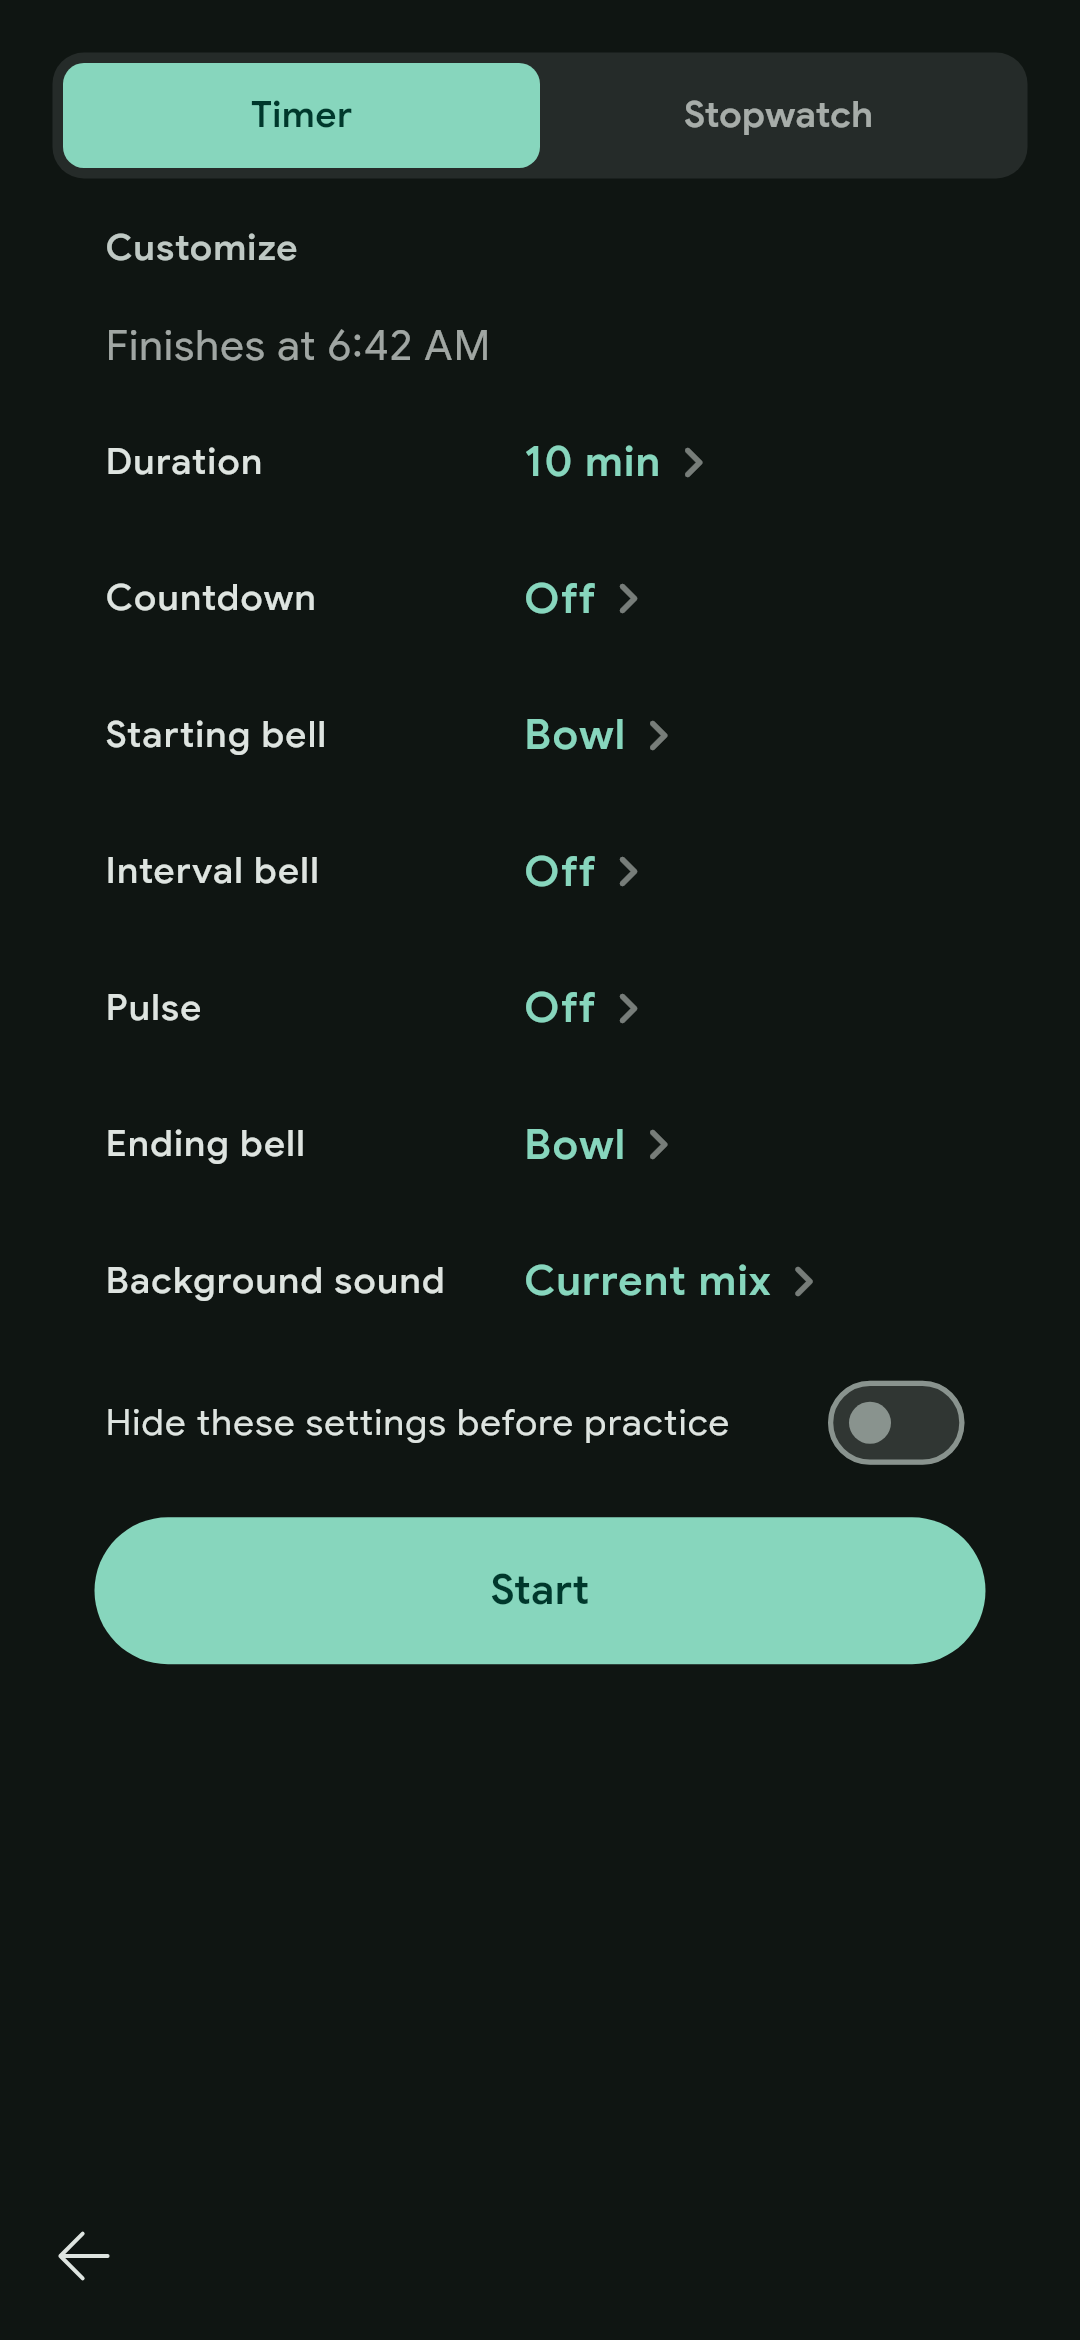
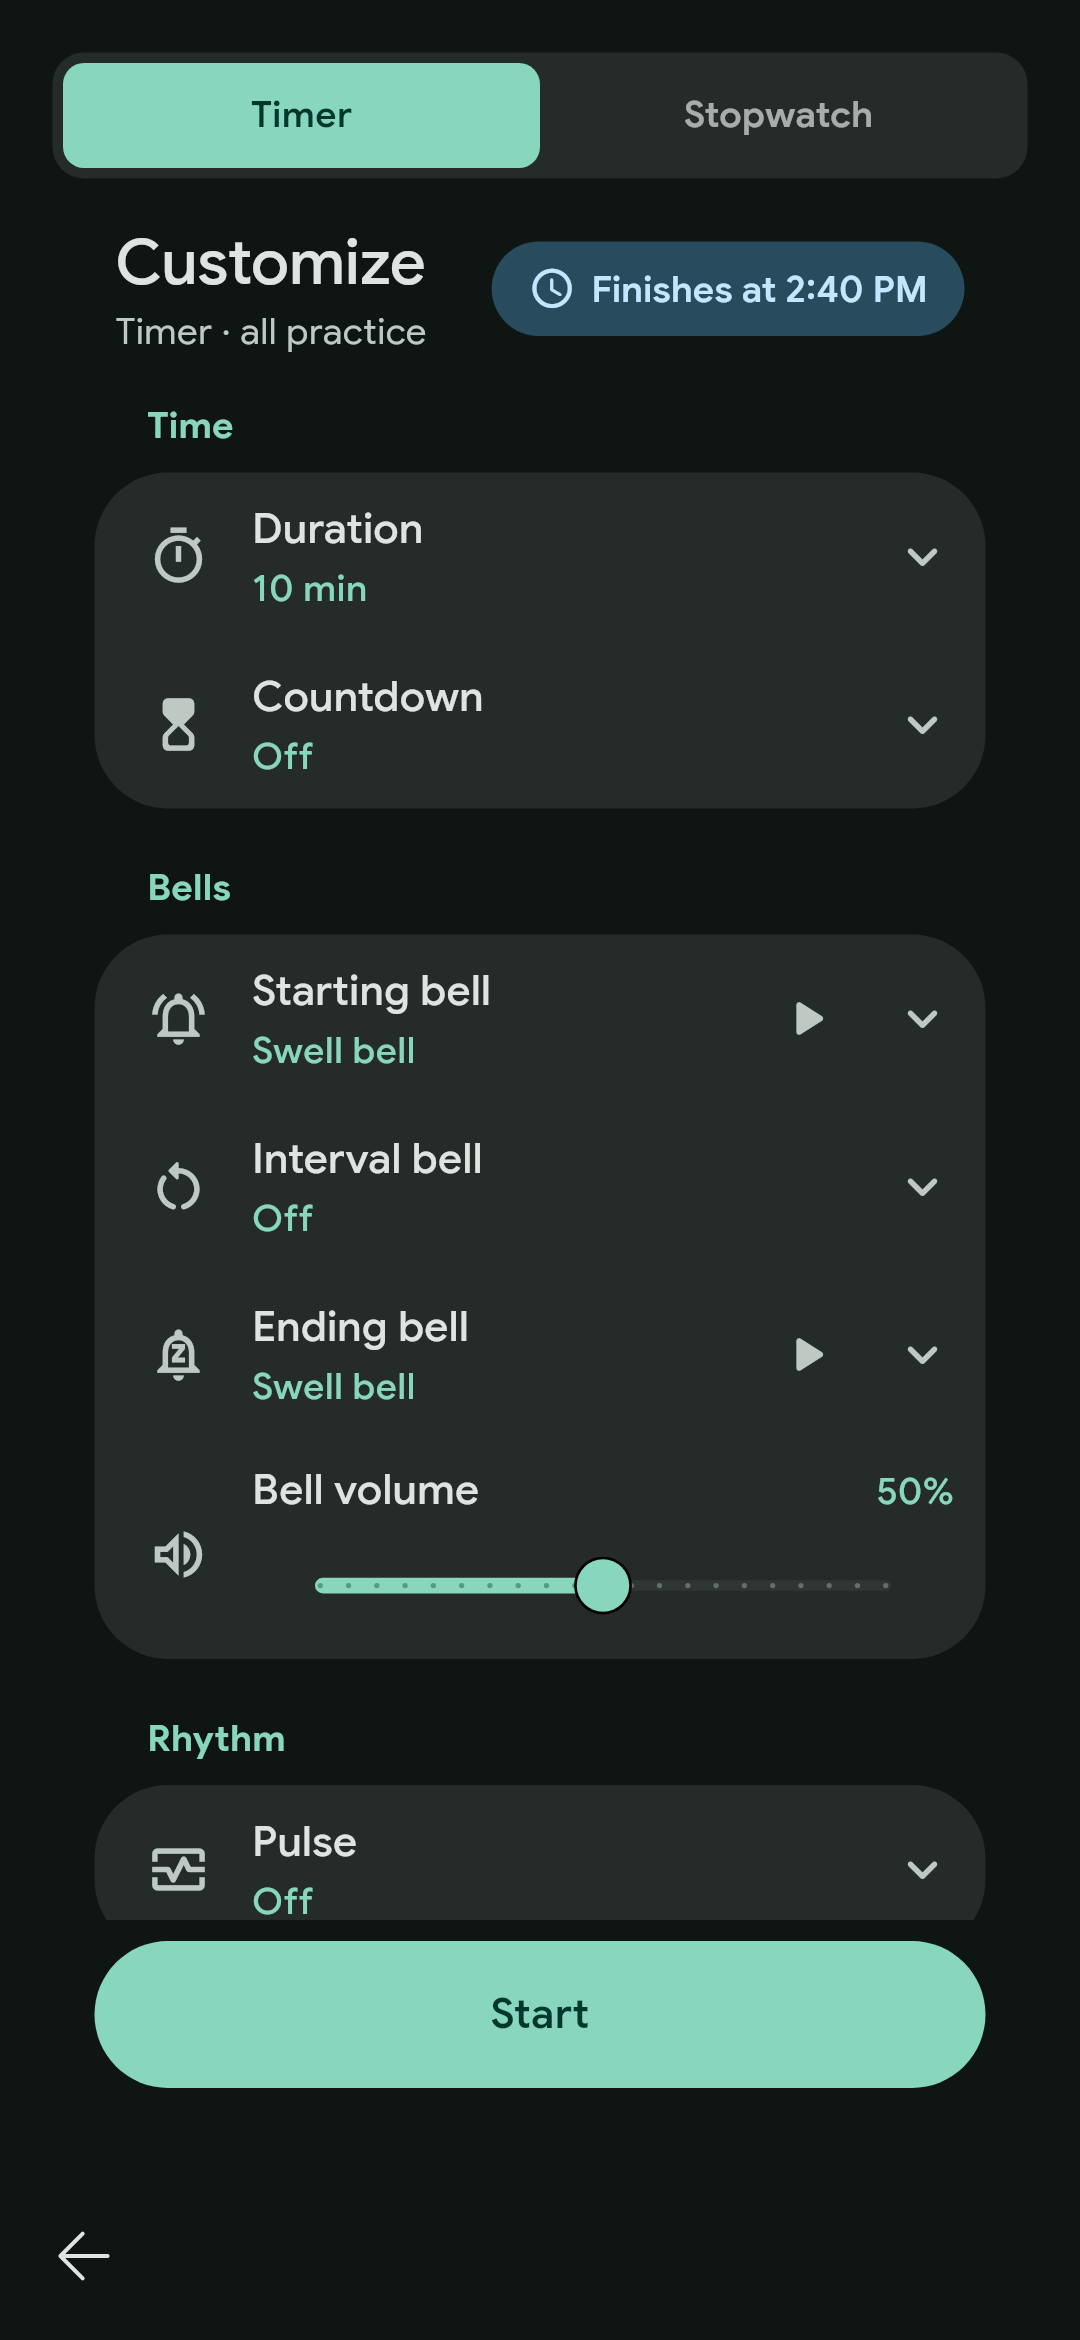
docs(fork): design PR 5 decisions, architecture and screenshots
DECISIONS.md: the wheel picker, the sheet's sections and order (Time
first for the Timer, flagged), halfway semantics with speed, pause and
seek, the Timer's silent default, and how 'Timer reuses the last-used
settings' would work. ARCHITECTURE.md: the sheet's layout, WheelPicker
and HalfwayCue. Screenshots under docs/fork/design/ (customize-*,
timer-*), light and dark.

diff --git a/docs/fork/DECISIONS.md b/docs/fork/DECISIONS.md
@@ -636,3 +636,37 @@ Decisions 16 and 18 (Stats page; Check for updates on the main Settings screen) 
 - **Not done:** per-bell suggestions (start/interval/end), a bell's own volume trim, and previews on slider change. The bell volume is still one setting for all three cues.
 - **Review (Opus, CodeRabbit) on #34.** Fixed: on Android the preview player no longer requests audio focus (`SessionBellPreview.newPlayer`), because the session's own player ducks to 30% on a focus loss and the soundscape pauses; a preview tap swallows load interruptions; the defect gate in `bells-checks.yml` can now fail the step (the pipe into `tee` hid its exit status); the sampler is now a pure-Python WAV, with no ffmpeg or apt (the runner's apt mirror stalled the ffmpeg install past the job's 15 minutes); both catalogue tests refuse a bell over 1 MiB (SoundPool's decode limit). **Not fixed, follow-up:** the Android no-focus preview is unverified on a device; the Kotlin catalogue test and the APK licence check run on `apk/**` pushes and manual runs, not on every PR (adding a PR trigger would build an APK per PR, so a lighter path-filtered job for the Kotlin test alone is the better follow-up).
 - **Declined (CodeRabbit, outside the diff): stop the bell preview in the Customize sheet's `dispose`.** The case is real (the session ends with a picker open and its route is removed, so the audition is not stopped by `_open`'s cleanup), but the shared `sessionBellPreviewProvider` also plays the session's end bell (`player_view.dart`), so a stop on dispose could cut that bell short, which is worse. An audition is short, and the end bell's own `play` replaces it. **Follow-up:** a preview player of its own for the pickers would allow stop-on-dispose safely.
+
+## 2026-10-26 (design pass PR 5: the Customize sheet, the scroll-wheel picker, and the halfway bell)
+
+BRIEF decisions 18 (wheel picker, halfway) and 19 (the Timer starts silent). Screenshots, light and dark, are in `docs/fork/design/` (`customize-before-*`, `customize-during-*`, `customize-wheel-*`, `timer-*`, `timer-duration-*`); regenerate with `MEDITEJO_SCREENSHOTS=1 flutter test test/screenshots`.
+
+- **`WheelPicker` (`lib/widgets/inputs/wheel_picker.dart`).** A `ListWheelScrollView` with `FixedExtentScrollPhysics` (snap), the chosen value on a `secondaryContainer` band (`MeditejoShapes.large`) in `emphasized.titleLarge`, neighbours lerping to `baseline.titleMedium` in `onSurfaceVariant`, fading and shrinking with distance. Values carry labels ("6 min", "Off", "Halfway") and optional longer screen-reader words.
+  - **One write per gesture.** It reports when the wheel comes to rest, not on every row it passes, so a flick through twenty values writes one setting (and reconfigures the native cues once mid-session). Taps on a neighbour, screen-reader steps and typed values report at once.
+  - **Haptics:** `selectionClick` on each row crossed under the finger (and its fling); moves the app makes do not buzz.
+  - **Typing:** where the range is long (duration 1–299, extend, interval, random window, BPM, ramp), tapping the centred value or a long press opens a number field with the range; out of range is refused with it. Short lists (countdown, interlude) do not offer it.
+  - **Accessibility:** one adjustable node ("Interval, 6 minutes") with increase/decrease and a "Type a value" custom action; the loose rows are excluded. Rows grow with the text size.
+  - The old `TimerDurationWheels` (hours and minutes cards) had no callers left and is untouched; the Timer's length is now the Duration wheel. Deleting it is a follow-up.
+- **The sheet** (`lib/views/cues/customize_sheet.dart`), same entry points and same public API (`showCustomizeSheet`, `CustomizeSheet`, `customizeFinishesAt`; the unused `embedded` flag is gone).
+  - **Layout:** 92% of the screen as a sheet (or the page the Timer gives it), with a pinned header: "Customize", whose settings these are ("All practice", "All talks", "Timer · all practice", "For this course/playlist"), and a tonal **Finishes at** pill, so it stays visible while the list scrolls. Start is pinned at the foot.
+  - **Sections** in the Settings/You style (primary title, rows on a 28 dp tonal card one step above the sheet, `surfaceContainerHigh`): **Bells** (start, interval, end, bell volume), **Rhythm** (pulse), **Time** (duration or extend, countdown), **Sound** (background), **Flow** (autoplay, hide before practice). A course scope adds its "Use these only for this course" card at the top, where it says where an edit goes.
+  - **Flagged, order:** the brief's order is used for sessions; **the Timer puts Time first**, because its length is what that screen is for. One line in the `sections` list if Burooj wants the brief's order there too.
+  - **In place, one at a time.** Each row shows its value folded and opens its controls below itself (`AnimatedSize` on the standard spring; a single step under reduced motion). Opening one folds the other. No sub-sheets remain.
+  - **Wheels for counts and times, sliders for levels.** Duration, extend, countdown, interval, random window, pulse rate, ramp, end rate and interlude are wheels. Bell, pulse and background volumes stay sliders: decision 18 names durations and counts, and a level is continuous.
+  - **Bells:** the folded row shows the bell's name and a play button (it rings that bell at the bell volume); open, the list keeps tap-to-choose-and-hear. Folding a bell list, or closing the sheet, stops a bell still ringing. Bell volume is now its own row in Bells, shared by the three cues as before.
+  - **Background sound** keeps its job (what plays under this kind or course, the mixer as the source of truth, a course's own choice when overridden) and its "Edit your mix in Sounds" link, opened in place. The caption now says nothing is chosen until picked (decision 17); the old "On by default for practice" was stale.
+  - **Unchanged behaviour:** scope and the course override, the native reconfiguration on edits, autoplay rules, "Changes apply to all practice/talks", the Start button and "Hide these settings before practice". The regression test drives every control and compares the stored `CueSettings` with what the old controls wrote.
+  - **Still English**, as the sheet was (DECISIONS, #38): localising it is one slice of its own.
+- **Halfway.** `CueSettings.intervalHalfway`: one interval bell at the midpoint of session time, using the interval bell's sound and the bell volume.
+  - **Stored beside the minutes, not instead.** Switching to Halfway keeps the interval minutes, so switching back restores them. No format bump: an older app ignores the key and plays its stored interval (or Off). The interval wheel is Off, Halfway, 1–60 min; the random window shows only for minutes.
+  - **Where the midpoint is.** Dart's `CueSchedule` (the reference) puts it at countdown + (audio + extend) / 2, or a timer's duration / 2. Natively it is half of the session end the engine already measures, which includes the extension and follows playback speed, so at 2× a 60-minute talk with 10 minutes of silence rings at 20 minutes of session time, not 35. A midpoint inside the extension rings there.
+  - **Pause and seek:** as interval bells. Session time freezes on pause; a seek past it consumes it silently (1.5 s late tolerance); a seek back before it rings it again when crossed; every re-arm (seek, configure) re-arms it, so changing the extension after it rang can ring it again at the new midpoint. A speed change that jumps the midpoint more than 1.5 s behind session time consumes it silently.
+  - **Unknown end** (repeat-one, or a stream whose length arrives late): it waits; the engine re-checks once a second while it is pending rather than going idle. On an endless loop that is a 1 Hz tick for the session, which is cheap but not nothing.
+  - **Code:** `HalfwayCue` in `CueMath.kt` (pending, `poll`, `dueAt`), wired into `CueEngine`'s `armAll`, `fireDue` and `scheduleNext`; mirrored in `CueScheduler.swift`. Tests: `CueMathTest` (crossing, pause, forward and back seeks, extension, speed change, end and unknown end, config), `CueSchedulerTests.swift` (same, unbuilt), and `cue_schedule_test.dart`.
+- **The Timer starts silent (decision 19): nothing to change, now pinned.** PR #35 already made Practice start with nothing chosen, and the Timer is the Practice scope. `test/views/timer/timer_default_test.dart` checks a fresh install's Timer: the default start and end bells (the Swell bell), no interval, pulse or countdown, background off, and starting it plays nothing; a saved sound and saved cues win and survive a relaunch.
+  - **Noted, not changed:** `CueSettings.defaults(practice)` still has the legacy `backgroundEnabled: true`. It only feeds the old ambient layer, whose catalogue is empty (`LocalCatalogue.backgroundSounds`), so it plays nothing; flipping it would touch stored defaults for no audible change. If that layer ever gets sounds again, this default must go first.
+- **"Timer reuses the last-used settings" (decision 19, "perhaps later"), not built.** How it would work: the Timer already has its own scope (`timerCueScope`, today kind-wide Practice). Giving it a scope of its own (`CueScope(CueKind.practice, courseId: 'timer')`, i.e. a permanent override) would make every Timer edit stick for the next Timer without touching guided Practice. "Last used" in the stronger sense (a preset tile's sound for one session becoming the default) would be a write of the session's effective settings at the Timer's natural end, behind a Settings switch, since it silently changes defaults.
+- **Follow-ups:**
+  - `TimerDurationWheels` is dead code; delete it.
+  - The player's Customize sheet opened from a preset-tile session still shows Practice's saved sound rather than the preset playing (from #36's review, unchanged here).
+  - Feel on the phone: wheel friction and snap, the haptic strength on the S23+, the 40 dp row, and whether Halfway sits well second in the interval wheel.

diff --git a/docs/fork/ARCHITECTURE.md b/docs/fork/ARCHITECTURE.md
@@ -703,13 +703,30 @@ The stored JSON carries `version` 1 (unversioned reads as 1); a newer version,
 or anything that fails to decode, reads as the kind's defaults.
 `cueScopeForRequestProvider` resolves a course's effective library group before
 playback. `CueSchedule` is the pure reference for countdown, start/end bells,
-fixed/random intervals, integrated pulse ramps and silent extension.
+fixed/random intervals, the halfway bell, integrated pulse ramps and silent
+extension.
 
-`CustomizeSheet` is used by `TimerView` as its setup screen and by the player's
-sliders action. `PlayerView` optionally shows it before starting; edits update
-the active native configuration and the existing ambient player; the
-Background sound row drives the soundscape mixer (Sounds and the mixer). The timer
-continues to use a sparse local WAV as its primary audio.
+`CustomizeSheet` is used by `TimerView` as its setup screen, by the player's
+sliders action and by Settings' Practice and Talks rows. `PlayerView`
+optionally shows it before starting; edits update the active native
+configuration and the existing ambient player; the Background sound row drives
+the soundscape mixer (Sounds and the mixer). The timer continues to use a
+sparse local WAV as its primary audio.
+
+The sheet is sections (Bells, Rhythm, Time, Sound, Flow; Time first for the
+Timer) under a pinned header with the scope and a Finishes at pill. Each row
+(`_ExpandingRow`, keyed `customize_<part>`) shows its value and opens its
+controls in place, one at a time. Durations and counts are `WheelPicker`s
+(`lib/widgets/inputs/wheel_picker.dart`, keyed `wheel_<label>`): snap, a
+haptic per row, one `onChanged` when the wheel rests, typed entry through
+`parseEntry`, one adjustable semantics node. Levels stay sliders.
+
+**Halfway.** `CueSettings.intervalHalfway` replaces the every-N-minutes bells
+with one bell at the midpoint of session time (`intervalMinutes` is kept for
+switching back). Natively it is `HalfwayCue` (`CueMath.kt`, mirrored in
+`CueScheduler.swift`): pending until crossed, re-armed by every `armAll`,
+due at half the session end the engine measures (extension and speed
+included), consumed silently when more than the interval tolerance late.
 
 **Bells.** Each cue stores its own bell (`startSound`, `intervalSound`,
 `endSound`) as a bundled asset path, validated against `cueBellSounds`, the one
@@ -721,7 +738,8 @@ The ten new bells are synthesised by `tools/meditejo/generate_bells.py`
 prints per-file numbers and builds the sampler). A bell the build does not know
 reads as the default. The Customize sheet's three bell rows share `_BellList`:
 tapping a row selects it and rings it once through `SessionBellPreview` at the
-bell volume; closing the sub-sheet stops it. `CueBellCatalogueTest` (Kotlin)
+bell volume; a folded row's play button rings the chosen bell; folding the
+list or closing the sheet stops it. `CueBellCatalogueTest` (Kotlin)
 reads the Dart catalogue, so the native side and the list cannot drift.
 
 `NativeCueController` sends plain configuration over `meditejo/cues`.
